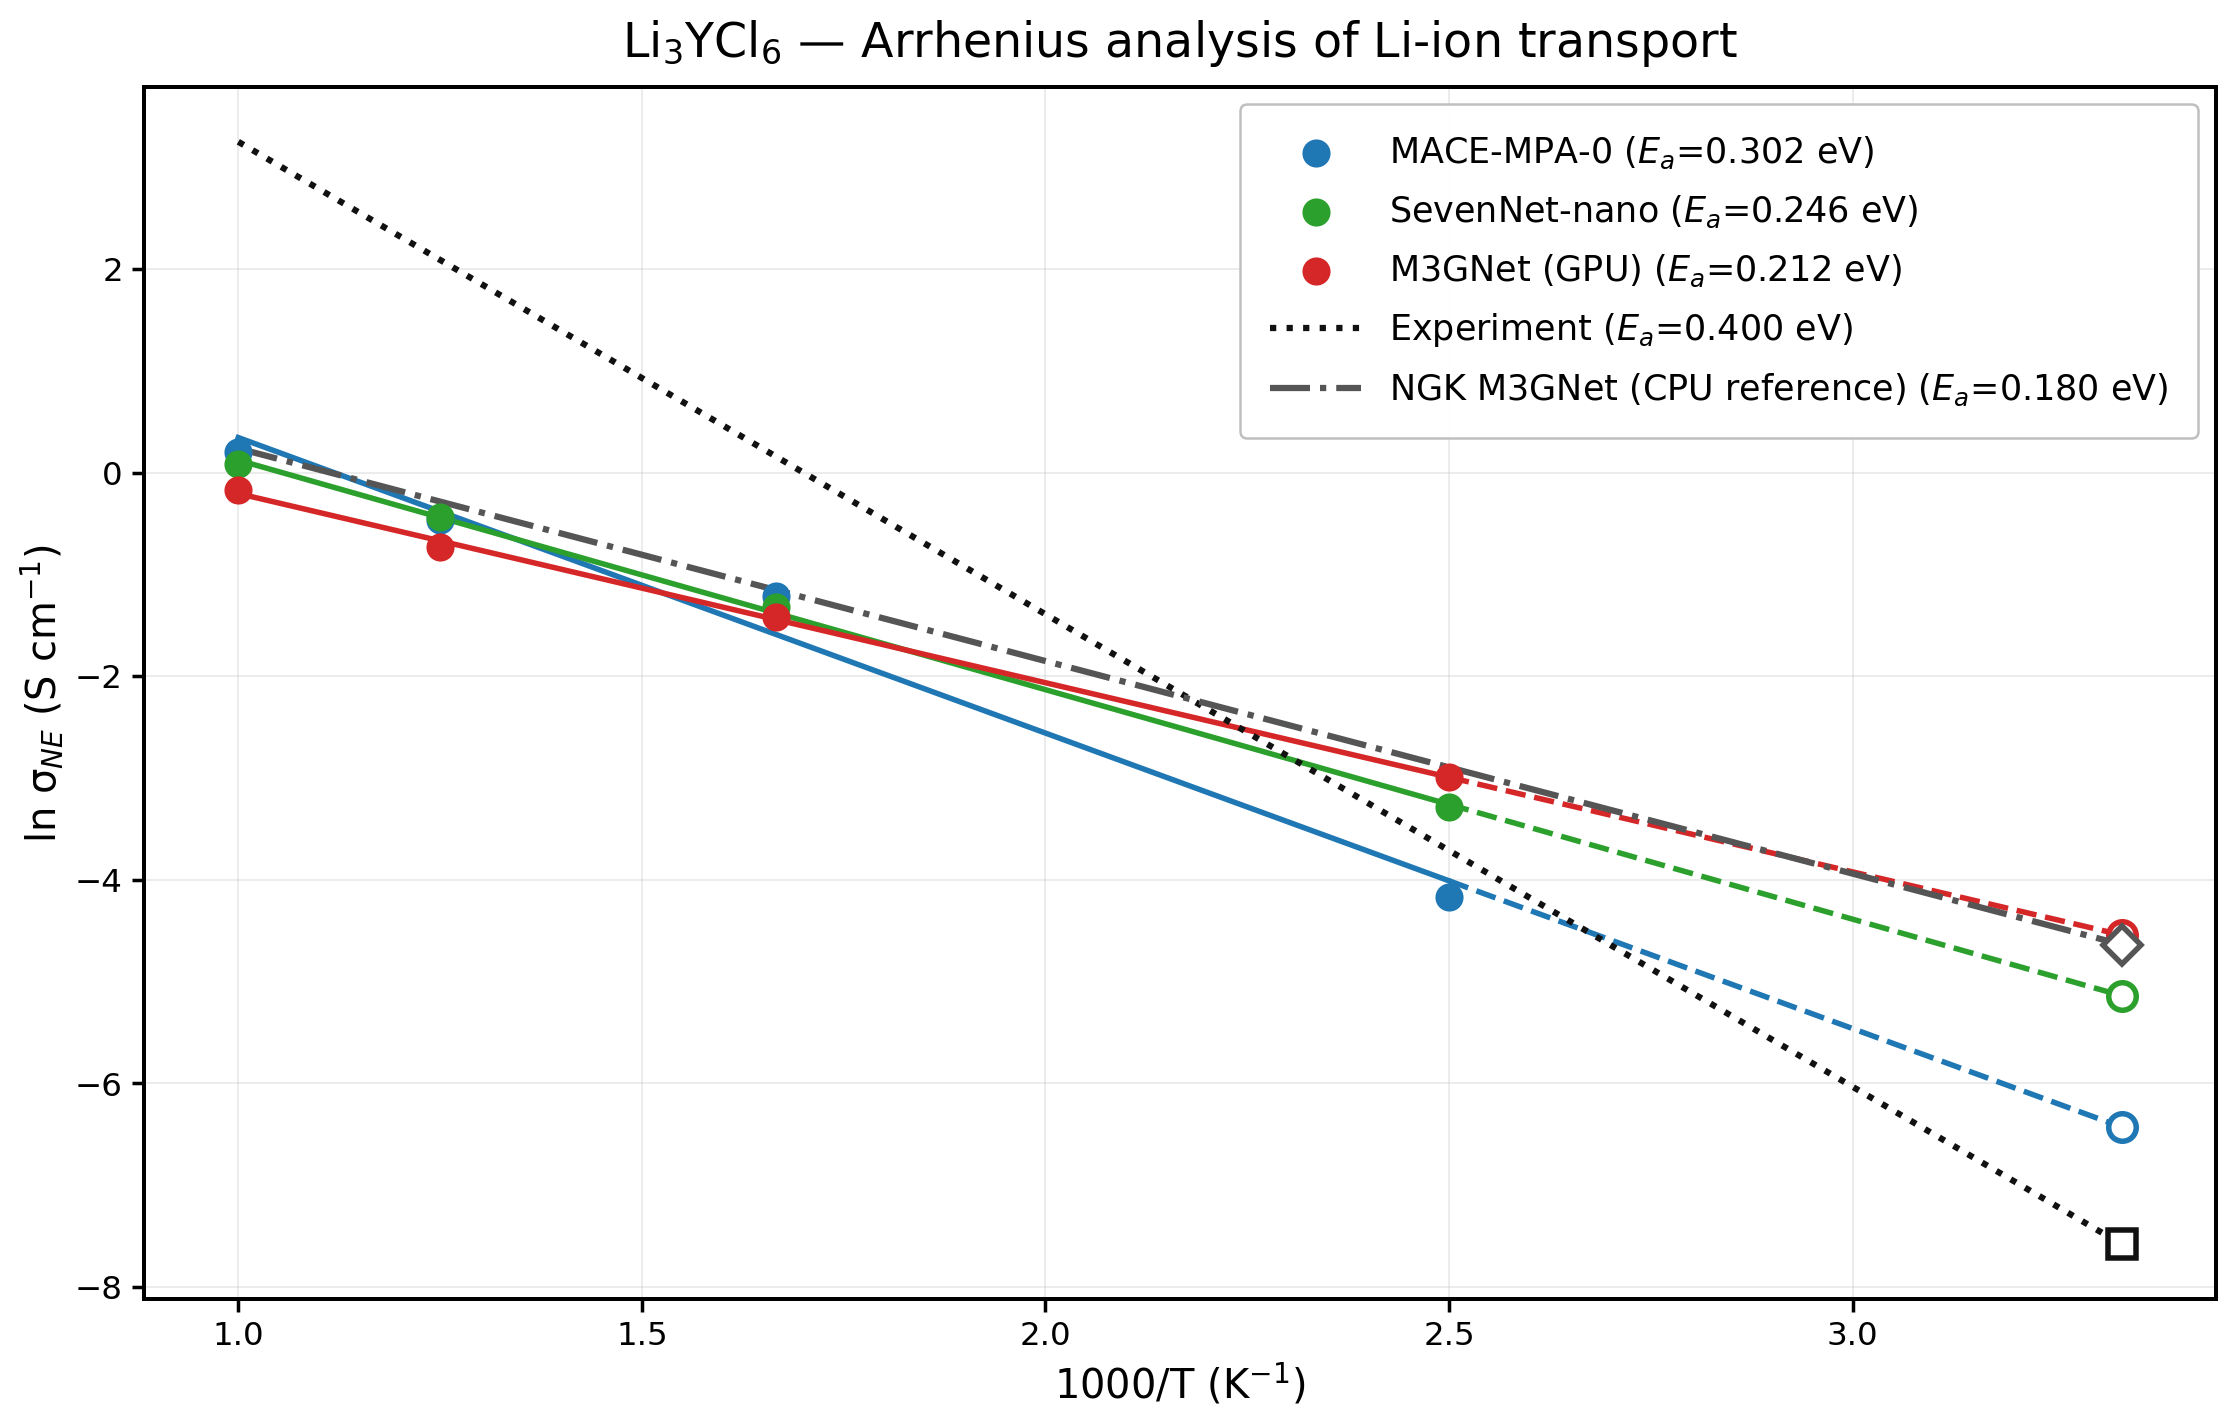
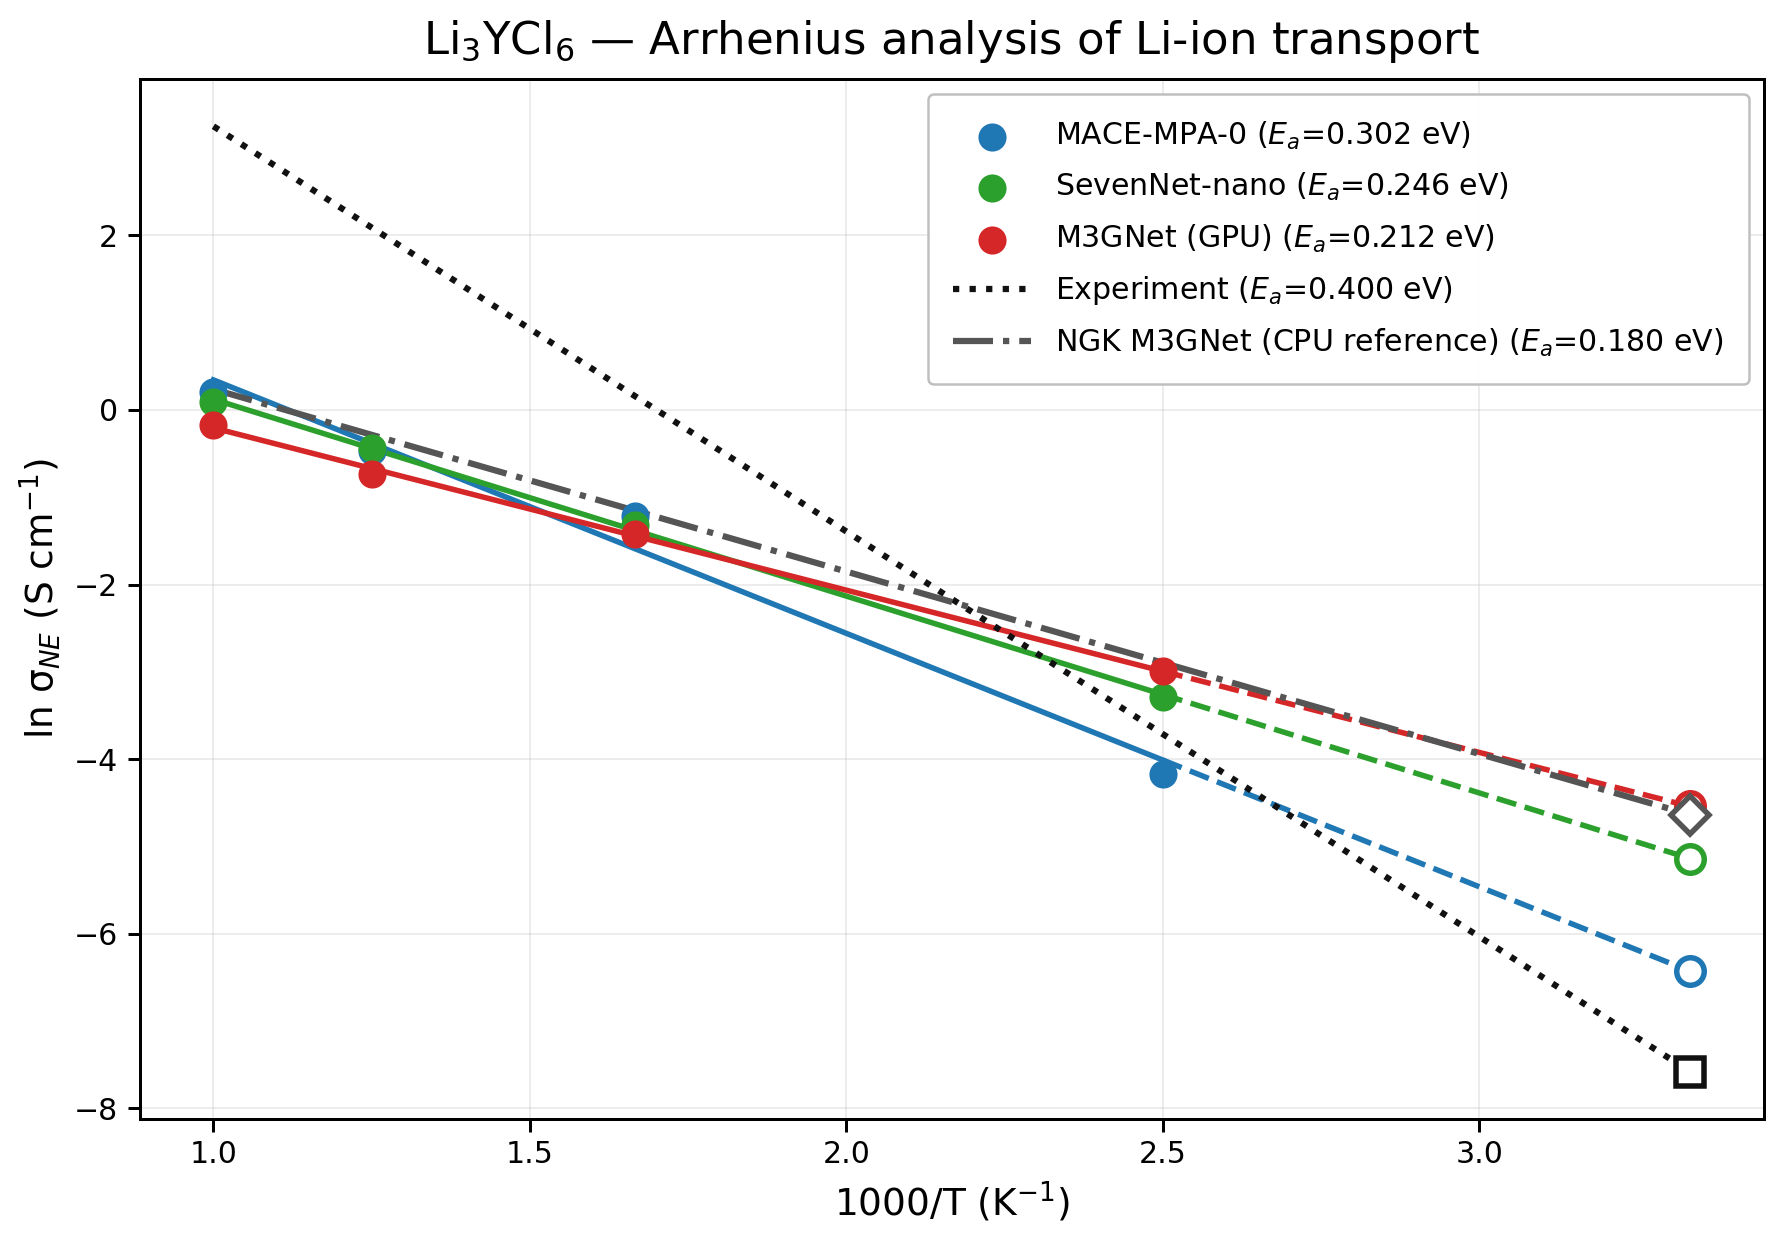
Match Arrhenius typography to formal figures

diff --git a/src/li_research/analysis/arrhenius/plot_li3ycl6_arrhenius_midterm.py b/src/li_research/analysis/arrhenius/plot_li3ycl6_arrhenius_midterm.py
@@ -17,7 +17,7 @@ models = [
     ("M3GNet (GPU)", np.array([0.0499968539, 0.2422683654, 0.4811228915, 0.8433514808]), 0.212, "#d62728"),
 ]
 
-fig, ax = plt.subplots(figsize=(12.5, 8), dpi=180)
+fig, ax = plt.subplots(figsize=(10, 7), dpi=180)
 for name, sigma, ea, color in models:
     y = np.log(sigma)
     slope, intercept = np.polyfit(x, y, 1)
@@ -41,14 +41,14 @@ for name, sigma300, ea, color, marker, ls in references:
     ax.plot(xx, yline, color=color, lw=2.5, ls=ls, label=fr"{name} ($E_a$={ea:.3f} eV)")
     ax.plot(1000.0 / 300.0, y300, marker=marker, ms=11, mfc="white", mec=color, mew=2.2)
 
-ax.set_title(r"Li$_3$YCl$_6$ — Arrhenius analysis of Li-ion transport", fontsize=19, pad=12)
-ax.set_xlabel(r"1000/T (K$^{-1}$)", fontsize=16)
-ax.set_ylabel(r"ln σ$_{NE}$ (S cm$^{-1}$)", fontsize=16)
-ax.tick_params(labelsize=13, width=1.4, length=5)
+ax.set_title(r"Li$_3$YCl$_6$ — Arrhenius analysis of Li-ion transport", fontsize=18, pad=10)
+ax.set_xlabel(r"1000/T (K$^{-1}$)", fontsize=15)
+ax.set_ylabel(r"ln σ$_{NE}$ (S cm$^{-1}$)", fontsize=15)
+ax.tick_params(labelsize=12, width=1.2, length=5)
 for spine in ax.spines.values():
-    spine.set_linewidth(1.6)
+    spine.set_linewidth(1.2)
 ax.grid(True, alpha=0.23)
-ax.legend(fontsize=14.0, loc="upper right",
+ax.legend(fontsize=12.0, loc="upper right",
           frameon=True, edgecolor="#bdbdbd", facecolor="white", framealpha=0.96,
           borderpad=0.85, labelspacing=0.65, handlelength=2.6)
 fig.tight_layout()
